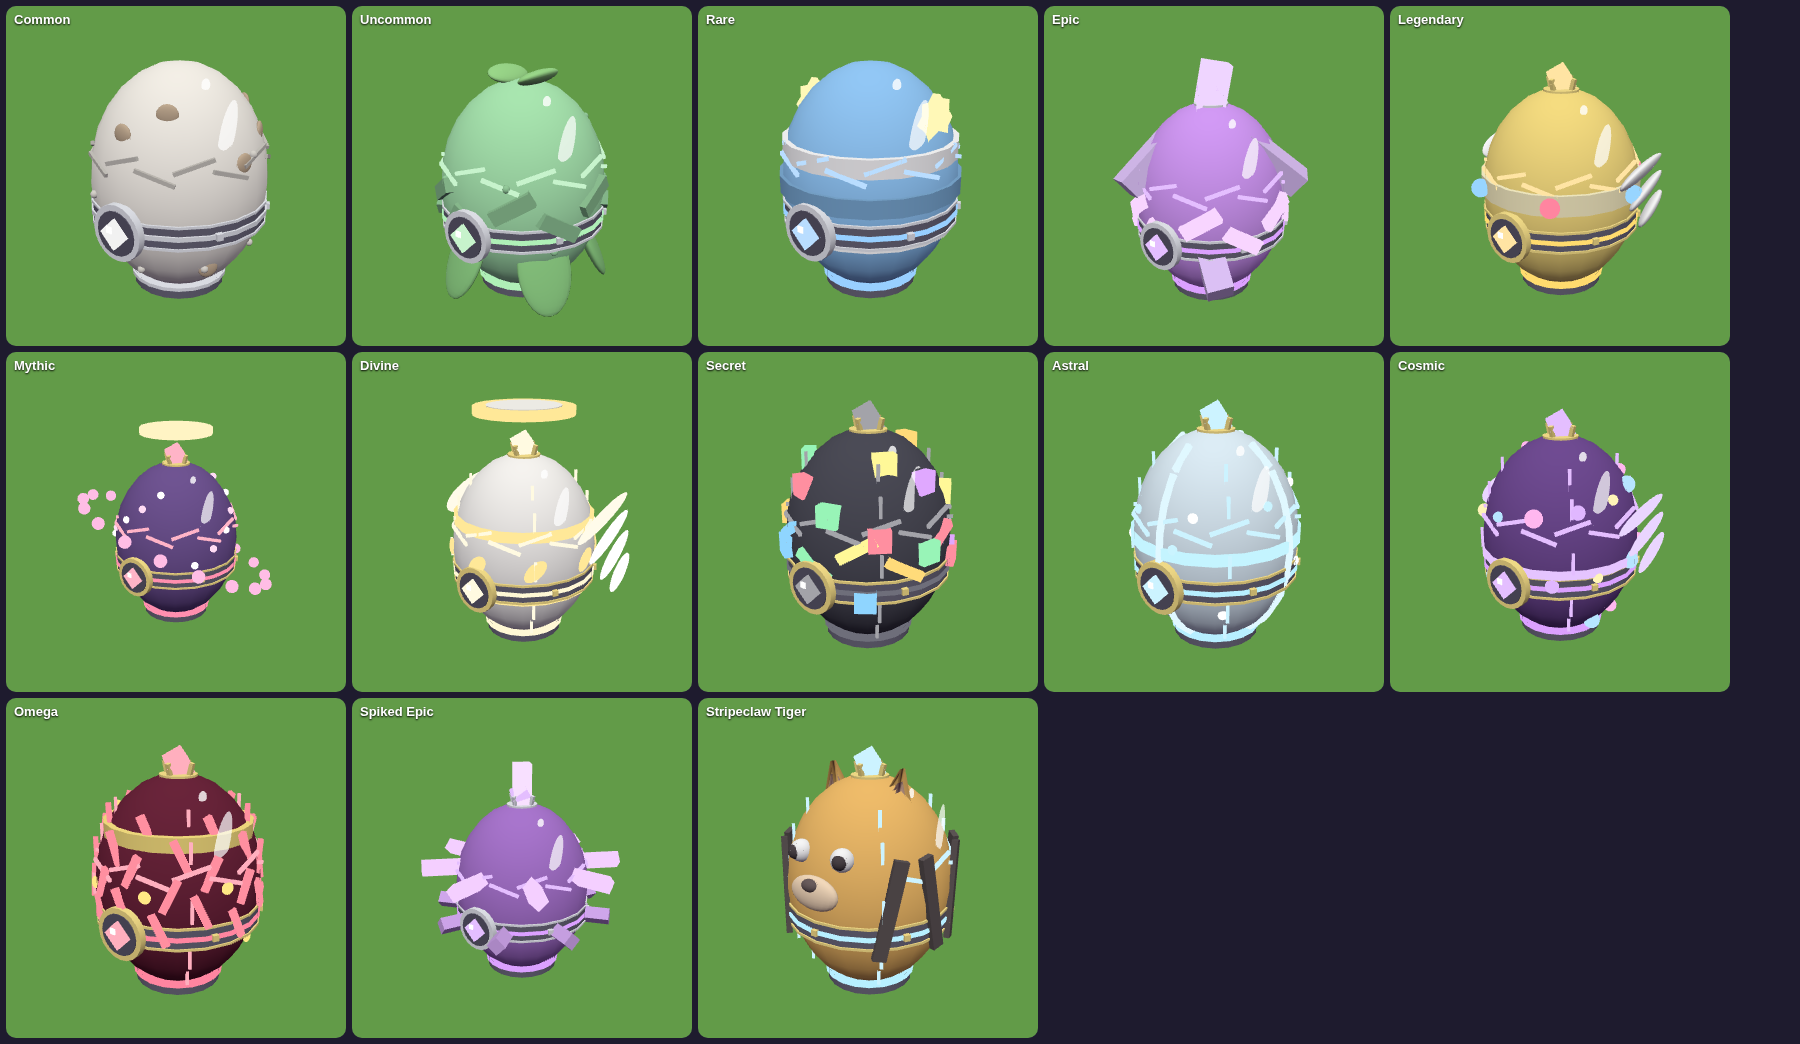
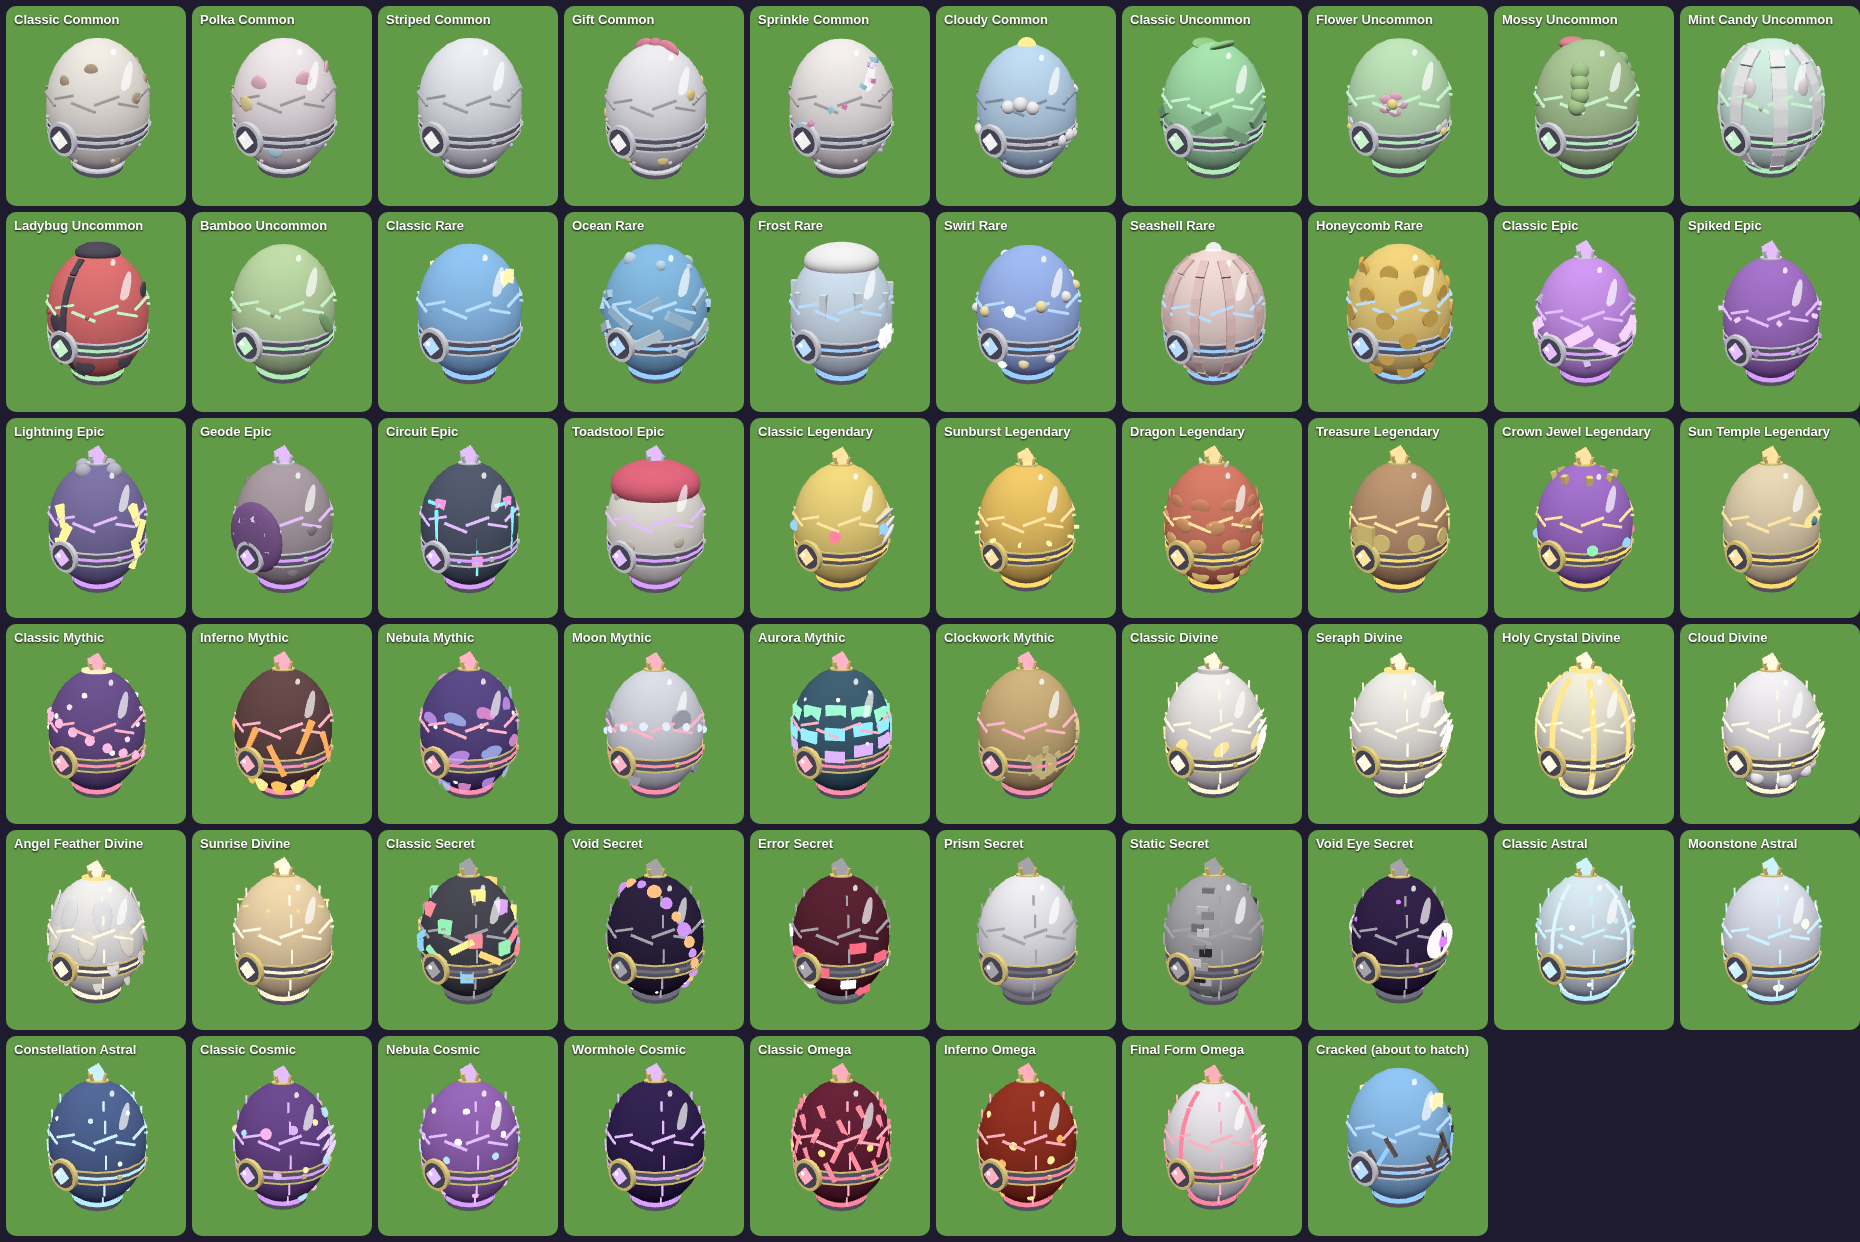
Keep egg designs flush with the shell
Rarity and variant decorations that floated off or stuck out of the
egg are pulled onto the shell and shrunk to fit, so every egg keeps a
clean egg shape. Species eggs keep their animal features.

Claude-Session: https://claude.ai/code/session_01WgF6ws6si8hcaGidQwzxpG

diff --git a/steal-a-pet-egg/README.md b/steal-a-pet-egg/README.md
@@ -65,7 +65,7 @@ Game Settings > Security > **Enable Studio Access to API Services**.
 - **Bonk Bat:** swing it (slash animation, sound, "BONK!" pop). Hit an egg carrier and they drop it. An egg stolen from a base flies back to its owner.
 - **Base Lock:** the blue pad. Blocks stealing from your base for 60s, then recharges for 90s.
 - **Top rarities for the late game:** above Secret are 🌟 **Astral** (9 pets, $2M-6M/s each), 🌌 **Cosmic** (8 pets, $25M-70M/s) and 🔴 **Omega** (8 pets, $300M-900M/s), only found in zones 13-20, each with their own egg designs. Grown, fused Omega pets earn hundreds of billions per second, enough for the late treadmill tiers.
-- **Modern eggs:** every egg has a glossy shell with a soft sheen, a glowing zig-zag hatch seam in its rarity color, a dark tech band with a light strip, trims and rivets, a core badge on the front (a glowing gem in a metal bezel), and a small stand with a glowing rim. Legendary and up get a faceted tip gem in a metal crown (gold from Legendary), and Secret and up get glowing lines running top to bottom. Species eggs keep their animal face on the front. See `egg_preview.png`.
+- **Modern eggs:** every egg has a glossy shell with a soft sheen, a glowing zig-zag hatch seam in its rarity color, a dark tech band with a light strip, trims and rivets, a core badge on the front (a glowing gem in a metal bezel), and a small stand with a glowing rim. Legendary and up get a faceted tip gem in a metal crown (gold from Legendary), and Secret and up get glowing lines running top to bottom. Each rarity's own design is flattened onto the shell so nothing sticks out (floating bits are pulled onto the egg, big pieces shrink to fit); species eggs keep their ears, tusks and tails. Species eggs keep their animal face on the front. See `egg_preview.png` (every rarity and design).
 - **Big cartoon eyes**: every pet has clear blocky eyes (white eye, bright iris, black pupil, a sparkle and a little brow). Mythic+ pets get glowing irises. Tweak `EYE_SCALE` in Visuals.
 - **Renamed pets**: old names in saves are moved to the new ones on load (`Config.RenamedPets`).
 - **Blocky, studded pets** (like the big showpiece pets in Steal an Egg): every pet is built from blocks with classic Roblox studs on every face, is 1.6x bigger (`Config.PetSizeBoost`), Legendary+ pets get a spiky back and Mythic+ pets glowing eyes. Turn it off with `PET_BLOCKY = false` in Visuals. Includes gorilla pets: Silverback (Epic), Jungle Kong (Legendary) and the crowned Silver Gorilla King (Omega). See `blocky_pets_preview.png` and `gorilla_pets_preview.png`.
